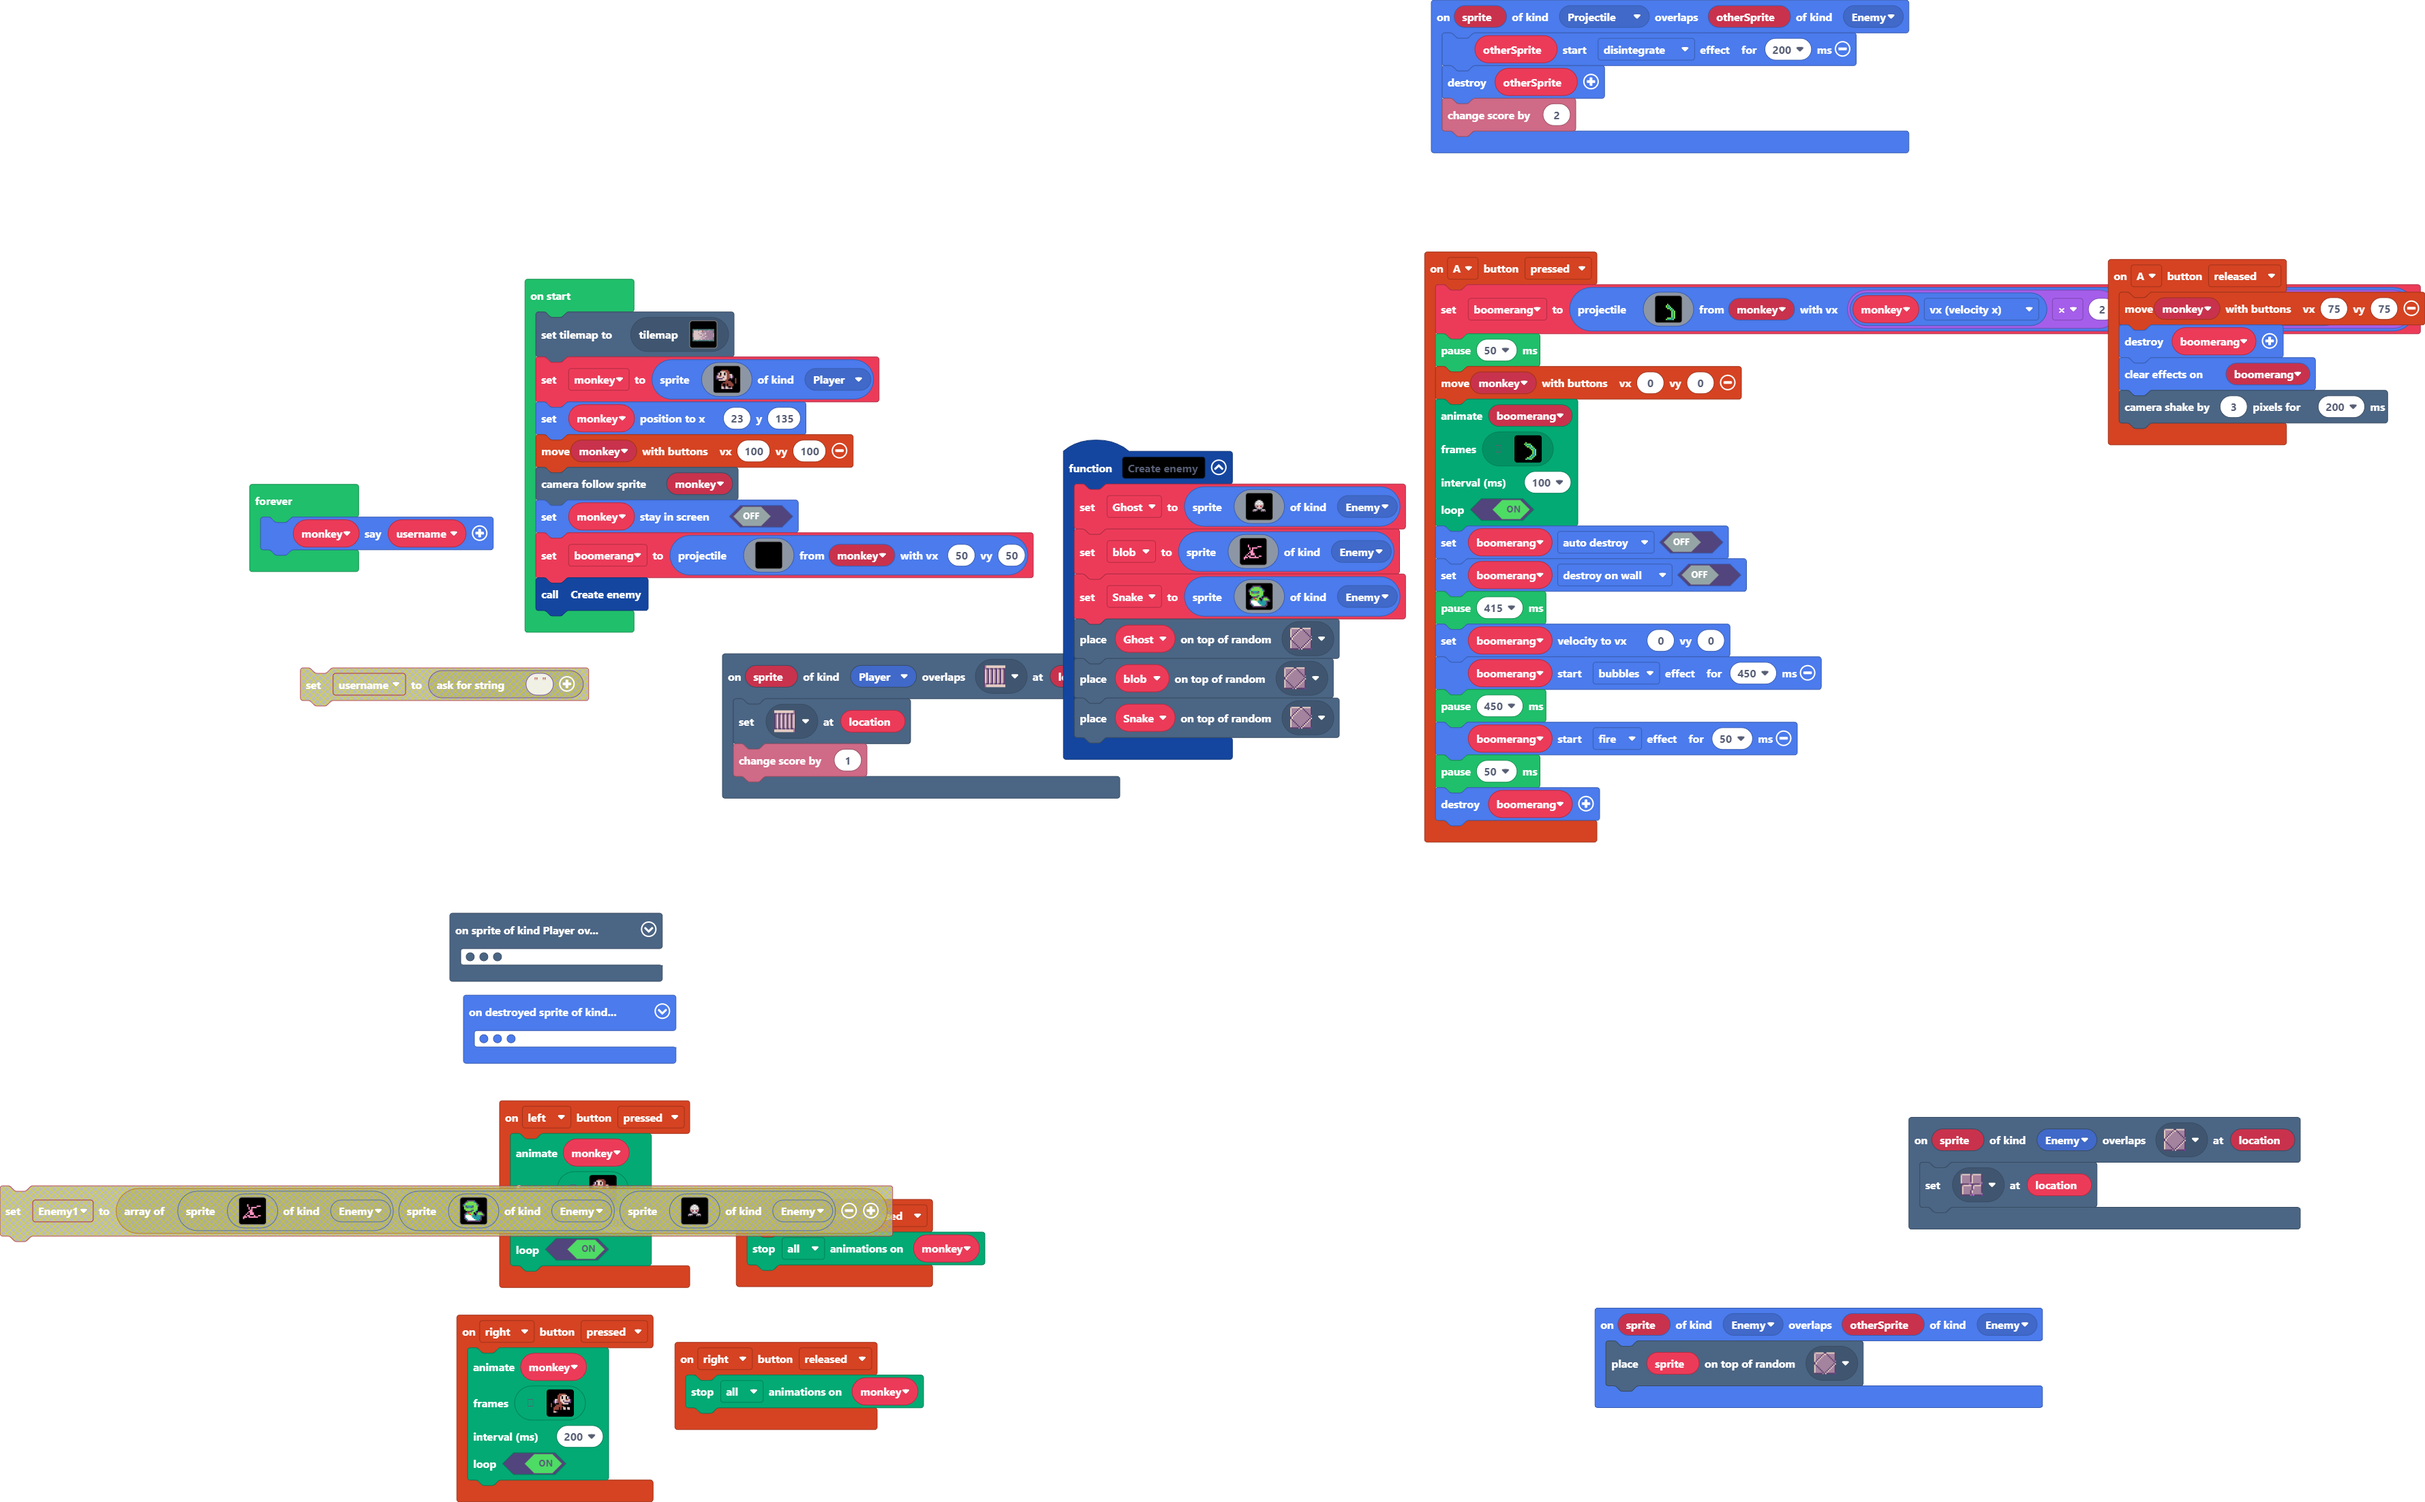
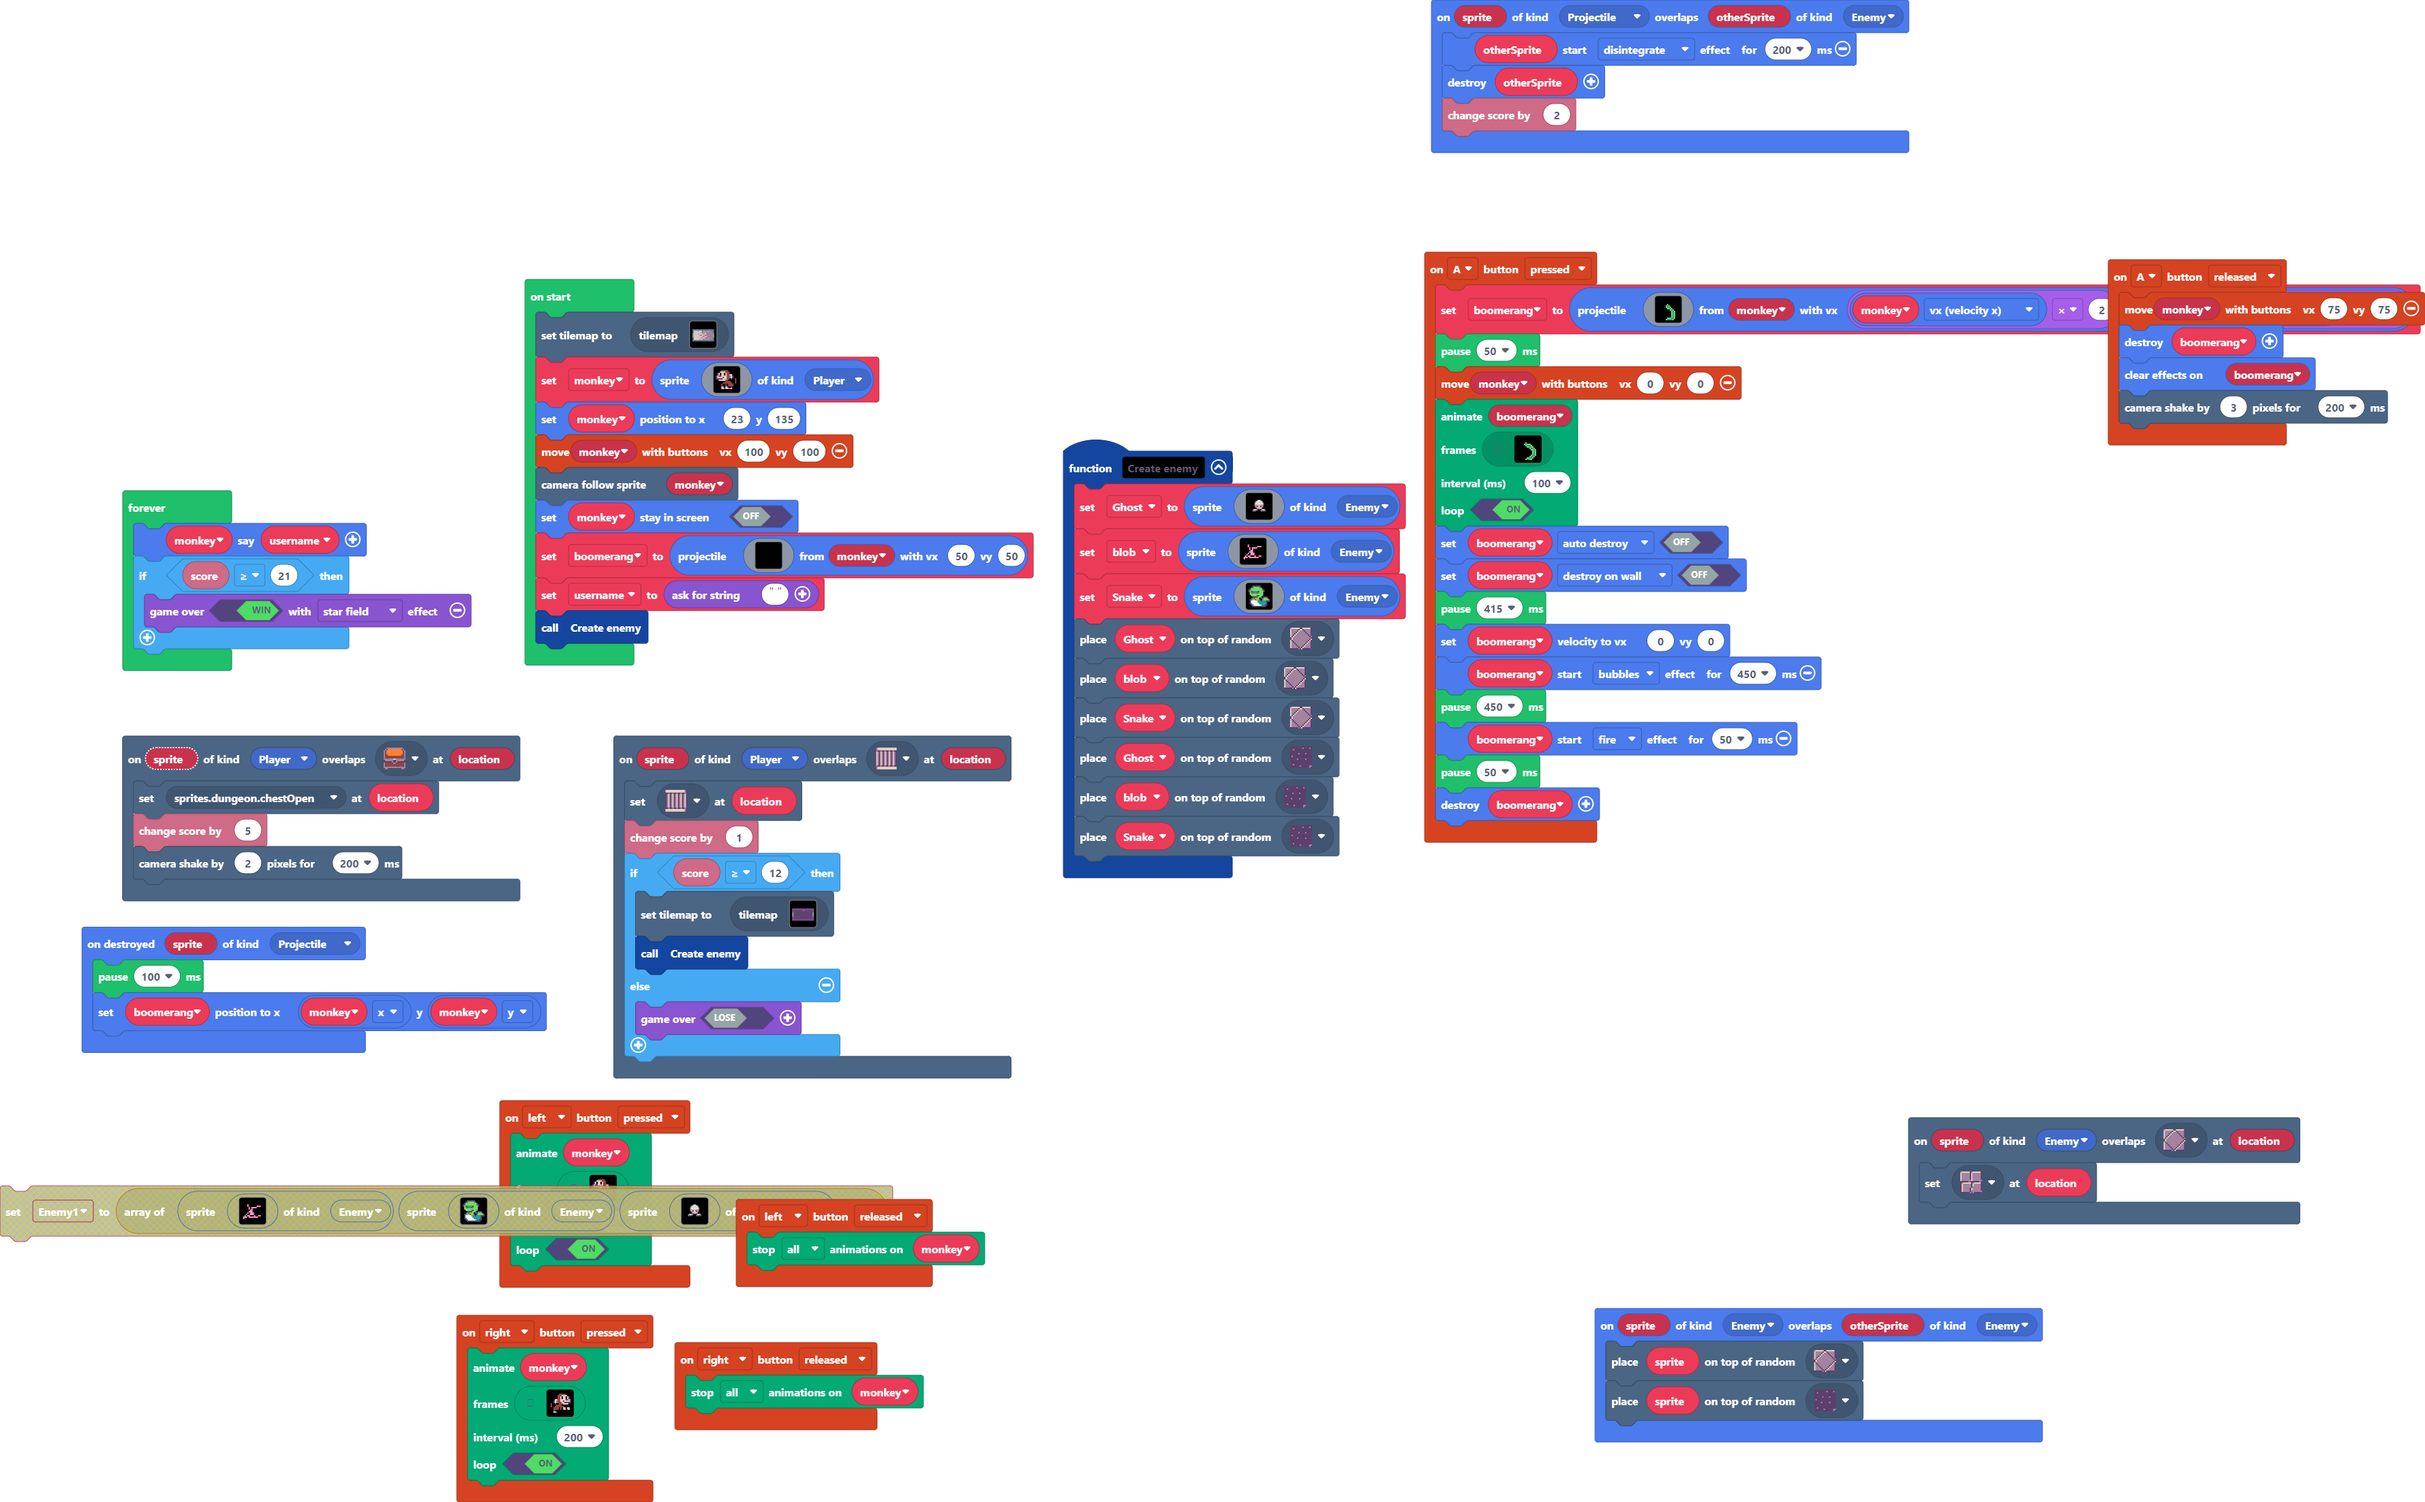
Update main.blocks, main.ts, tilemap.g.jres, tilemap.g.ts

diff --git a/main.ts b/main.ts
@@ -279,9 +279,13 @@ function Create_enemy () {
     tiles.placeOnRandomTile(Ghost, sprites.dungeon.floorDarkDiamond)
     tiles.placeOnRandomTile(blob, sprites.dungeon.floorDarkDiamond)
     tiles.placeOnRandomTile(Snake, sprites.dungeon.floorDarkDiamond)
+    tiles.placeOnRandomTile(Ghost, sprites.dungeon.darkGroundNorthWest1)
+    tiles.placeOnRandomTile(blob, sprites.dungeon.darkGroundNorthWest1)
+    tiles.placeOnRandomTile(Snake, sprites.dungeon.darkGroundNorthWest1)
 }
 sprites.onOverlap(SpriteKind.Enemy, SpriteKind.Enemy, function (sprite, otherSprite) {
     tiles.placeOnRandomTile(sprite, sprites.dungeon.floorDarkDiamond)
+    tiles.placeOnRandomTile(sprite, sprites.dungeon.darkGroundNorthWest1)
 })
 controller.right.onEvent(ControllerButtonEvent.Released, function () {
     animation.stopAnimation(animation.AnimationTypes.All, monkey)
@@ -289,9 +293,10 @@ controller.right.onEvent(ControllerButtonEvent.Released, function () {
 controller.left.onEvent(ControllerButtonEvent.Released, function () {
     animation.stopAnimation(animation.AnimationTypes.All, monkey)
 })
-sprites.onDestroyed(SpriteKind.Projectile, function (sprite) {
-    pause(100)
-    boomerang.setPosition(monkey.x, monkey.y)
+scene.onOverlapTile(SpriteKind.Player, sprites.dungeon.chestClosed, function (sprite, location) {
+    tiles.setTileAt(location, sprites.dungeon.chestOpen)
+    info.changeScoreBy(5)
+    scene.cameraShake(2, 200)
 })
 controller.right.onEvent(ControllerButtonEvent.Pressed, function () {
     animation.runImageAnimation(
@@ -406,6 +411,12 @@ controller.right.onEvent(ControllerButtonEvent.Pressed, function () {
 scene.onOverlapTile(SpriteKind.Player, sprites.dungeon.stairEast, function (sprite, location) {
     tiles.setTileAt(location, sprites.dungeon.stairWest)
     info.changeScoreBy(1)
+    if (info.score() >= 12) {
+        tiles.setCurrentTilemap(tilemap`level4`)
+        Create_enemy()
+    } else {
+        game.over(false)
+    }
 })
 controller.A.onEvent(ControllerButtonEvent.Released, function () {
     controller.moveSprite(monkey, 75, 75)
@@ -416,10 +427,9 @@ controller.A.onEvent(ControllerButtonEvent.Released, function () {
 scene.onOverlapTile(SpriteKind.Enemy, sprites.dungeon.floorDarkDiamond, function (sprite, location) {
     tiles.setTileAt(location, sprites.dungeon.floorDark4)
 })
-scene.onOverlapTile(SpriteKind.Player, sprites.dungeon.chestClosed, function (sprite, location) {
-    tiles.setTileAt(location, sprites.dungeon.chestOpen)
-    info.changeScoreBy(5)
-    scene.cameraShake(2, 200)
+sprites.onDestroyed(SpriteKind.Projectile, function (sprite) {
+    pause(100)
+    boomerang.setPosition(monkey.x, monkey.y)
 })
 sprites.onOverlap(SpriteKind.Projectile, SpriteKind.Enemy, function (sprite, otherSprite) {
     otherSprite.startEffect(effects.disintegrate, 200)
@@ -472,8 +482,11 @@ boomerang = sprites.createProjectileFromSprite(img`
     . . . . . . . . . . . . . . . . 
     . . . . . . . . . . . . . . . . 
     `, monkey, 50, 50)
+let username = game.askForString("")
 Create_enemy()
 forever(function () {
-    let username = 0
     monkey.sayText(username)
+    if (info.score() >= 21) {
+        game.over(true, effects.starField)
+    }
 })

diff --git a/tilemap.g.ts b/tilemap.g.ts
@@ -62,6 +62,25 @@ namespace myTiles {
 . . . . . . . . . . . . . . . . 
 . . . . . . . . . . . . . . . . 
 `, [myTiles.transparency16], TileScale.Sixteen);
+            case "level4":
[1 lines of base64/hex data omitted]
+. . . . . . . . . . . . . . . . 
+. . . . . . . . . . . . . . . . 
+. . . . . . . . . . . . . . . . 
+. . . . . . . . . . . . . . . . 
+2 2 2 2 2 2 2 2 2 2 2 2 2 2 2 2 
+2 . . . . . . . . . . . . . . 2 
+2 . . . . . . . . . . . . . . 2 
+2 . . . . . . . . . . . . . . . 
+2 . . . . . . . . . . . . . . . 
+2 . . . . . . . . . . . . . . . 
+2 . . . . . . . . . . . . . . 2 
+2 . . . . . . . . . . . . . . 2 
+2 2 2 2 2 2 2 2 2 2 2 2 2 2 2 2 
+. . . . . . . . . . . . . . . . 
+. . . . . . . . . . . . . . . . 
+. . . . . . . . . . . . . . . . 
+`, [myTiles.transparency16,sprites.dungeon.purpleOuterSouthEast,sprites.dungeon.purpleOuterNorthWest,sprites.dungeon.purpleOuterNorthEast,sprites.dungeon.purpleOuterNorth1,sprites.dungeon.purpleOuterNorth0,sprites.dungeon.purpleOuterSouth1,sprites.dungeon.purpleOuterSouth0,sprites.dungeon.purpleOuterSouthWest,sprites.dungeon.stairEast,sprites.dungeon.stairWest,sprites.dungeon.purpleOuterWest0,sprites.dungeon.purpleOuterEast0,sprites.dungeon.darkGroundNorthWest0,sprites.dungeon.darkGroundNorthEast0,sprites.dungeon.darkGroundSouthEast0,sprites.dungeon.darkGroundSouthWest0,sprites.dungeon.darkGroundNorth,sprites.dungeon.darkGroundWest,sprites.dungeon.darkGroundEast,sprites.dungeon.darkGroundSouth,sprites.dungeon.darkGroundCenter,sprites.dungeon.chestClosed,sprites.dungeon.darkGroundNorthWest1], TileScale.Sixteen);
         }
         return null;
     })
